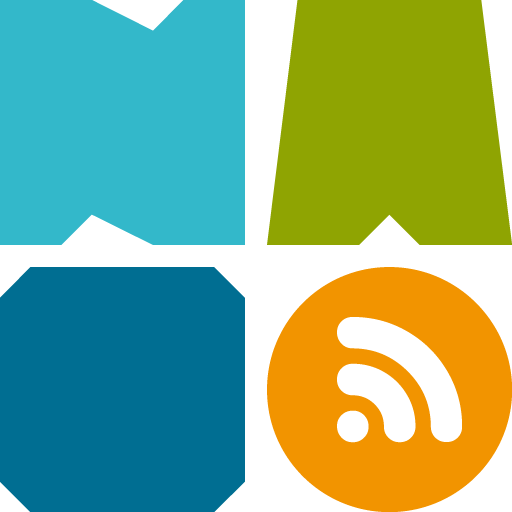
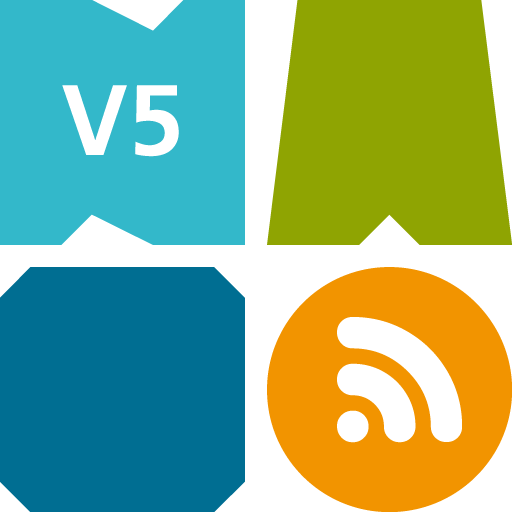
bump to version 1.0.5, fix license

Changed region(s): [[0.125, 0.1562, 0.375, 0.3125]]

diff --git a/oraclient-choreographe-app-v5/app/scripts/main.py b/oraclient-choreographe-app-v5/app/scripts/main.py
@@ -1,20 +1,10 @@
-__version__ = "0.0.2"
-
-__copyright__ = "Copyright 2017-2019, Fraunhofer IAIS"
-__author__ = 'Artem Vinokurov'
-__email__ = 'artem.vinokurov@iais.fraunhofer.de'
-
 '''
 naoclient.client -- shortdesc
 naoclient.client is an OpenRoberta rest client
 It defines nao - server communication
 
-@author:     Artem Vinokurov
-@copyright:  2017-2019 Fraunhofer IAIS.
-@license:    GPL 3.0
-@contact:    artem.vinokurov@iais.fraunhofer.de
-@deffield    updated: 21 Nov. 2019
 '''
+__version__ = "1.0.5"
 
 import stk.runner
 import stk.events

diff --git a/oraclient-choreographe-app-v6/app/scripts/main.py b/oraclient-choreographe-app-v6/app/scripts/main.py
@@ -1,20 +1,9 @@
-__version__ = "0.0.2"
-
-__copyright__ = "Copyright 2017-2019, Fraunhofer IAIS"
-__author__ = 'Artem Vinokurov'
-__email__ = 'artem.vinokurov@iais.fraunhofer.de'
-
 '''
 naoclient.client -- shortdesc
 naoclient.client is an OpenRoberta rest client
 It defines nao - server communication
-
-@author:     Artem Vinokurov
-@copyright:  2017-2019 Fraunhofer IAIS.
-@license:    GPL 3.0
-@contact:    artem.vinokurov@iais.fraunhofer.de
-@deffield    updated: 23 May 2019
 '''
+__version__ = "1.0.5"
 
 import stk.runner
 import stk.events
